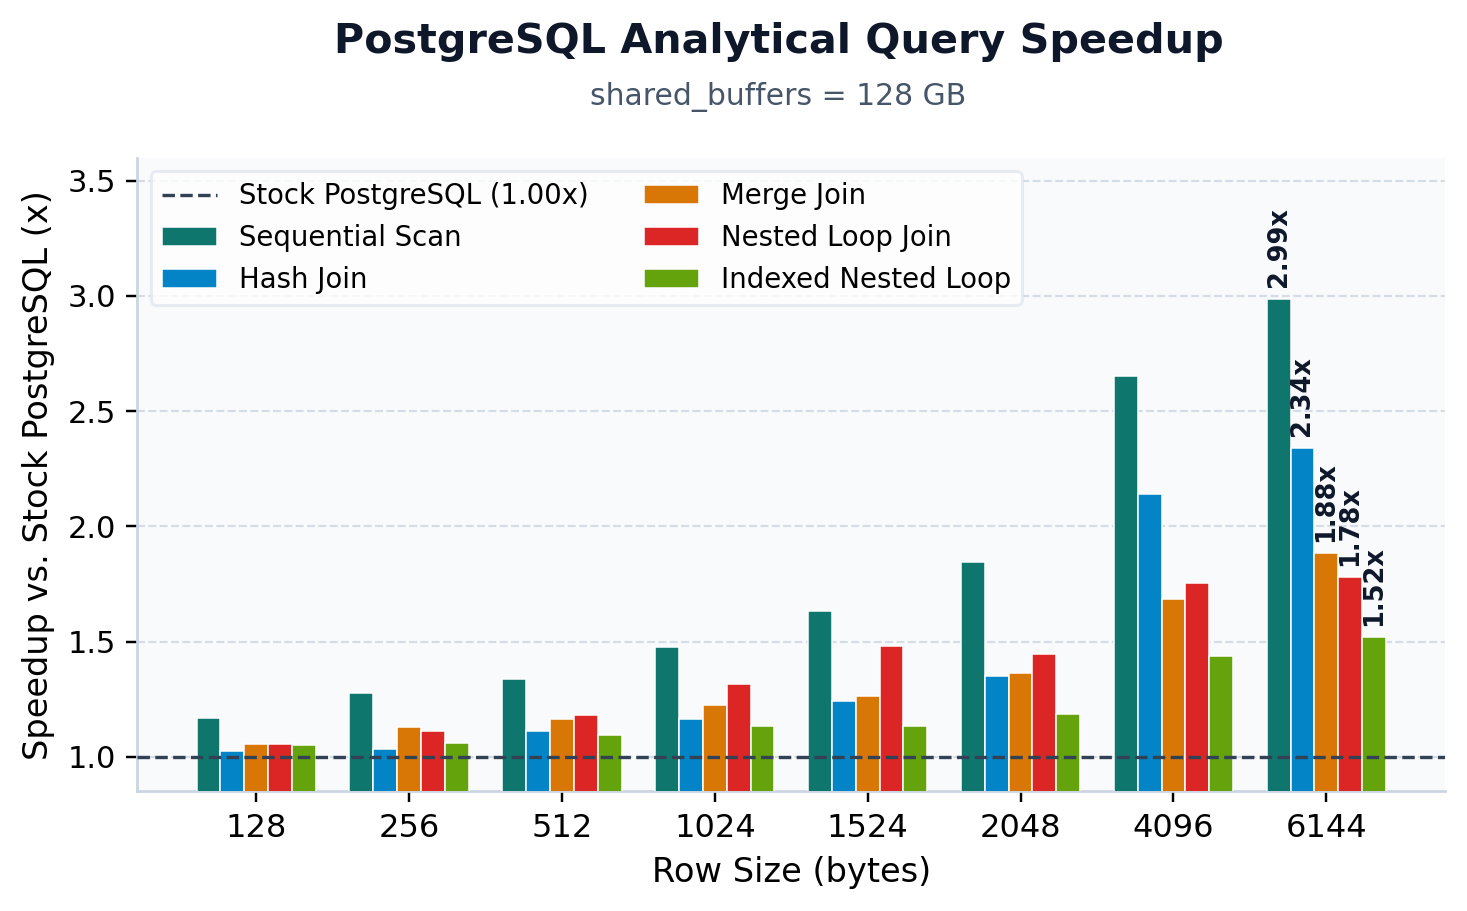
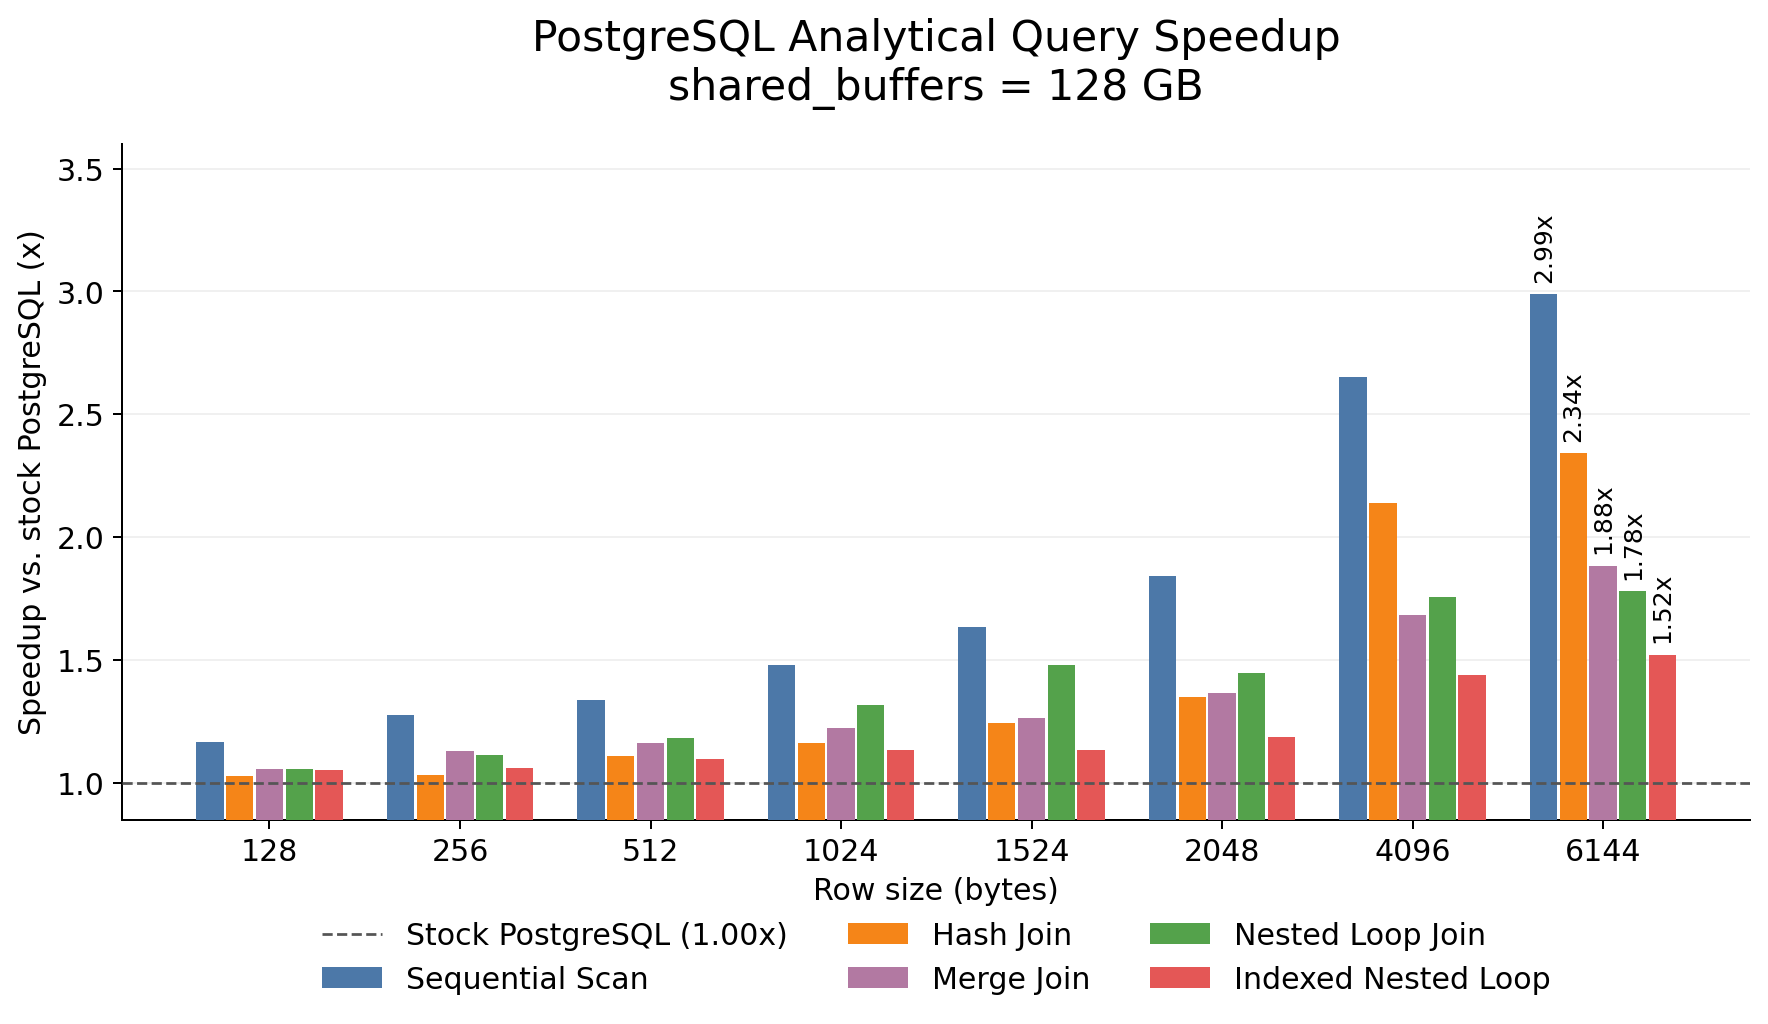
Unify benchmark figure fonts and colors

diff --git a/bench/plot_other_figures.py b/bench/plot_other_figures.py
@@ -1,0 +1,83 @@
+#!/usr/bin/env python3
+"""Restyle the historical IVFFlat and SQL charts without rerunning benchmarks."""
+import argparse
+import json
+from pathlib import Path
+
+import matplotlib
+matplotlib.use('Agg')
+import numpy as np
+
+from plot_style import (PALETTE, BASELINE_COLOR, FAST_COLOR, apply_style,
+                        new_chart, add_legend, save_chart)
+
+
+def plot_ivfflat(data, assets):
+    fig, ax = new_chart('IVFFlat Vector Search Latency',
+                        f"shared_buffers = {data['shared_buffers_gb']} GB")
+    datasets = data['datasets']
+    xs = np.arange(len(datasets))
+    width = .34
+    peak = max(r['pgvector_median_ms'] for r in datasets)
+    for offset, field, label, color in [
+        (-.5, 'pgvector_median_ms', 'pgvector', BASELINE_COLOR),
+        (.5, 'pgvectorfast_median_ms', 'pgvectorfast', FAST_COLOR),
+    ]:
+        bars = ax.bar(xs + offset*width, [r[field] for r in datasets],
+                      width*.92, label=label, color=color, zorder=3)
+        for bar, row in zip(bars, datasets):
+            value = row[field]
+            text = f'{value:.2f}'
+            if field == 'pgvectorfast_median_ms':
+                reduction = 100 * (1 - value / row['pgvector_median_ms'])
+                text += f'\n(-{reduction:.1f}%)'
+            ax.text(bar.get_x() + bar.get_width()/2, value + peak*.018,
+                    text, ha='center', va='bottom', fontsize=10)
+    ax.set_xticks(xs, [f"{r['name']} ({r['dimensions']}D)\n"
+                      f"Recall@3 = {r['recall_at_3']:.2f}" for r in datasets])
+    ax.set_ylabel('Median query latency (ms)')
+    ax.set_ylim(0, peak*1.22)
+    add_legend(ax, 2)
+    save_chart(fig, assets/'ivfflat_latency.png')
+
+
+def plot_analytical(data, assets):
+    fig, ax = new_chart('PostgreSQL Analytical Query Speedup',
+                        f"shared_buffers = {data['shared_buffers_gb']} GB")
+    sizes = data['row_sizes_bytes']
+    xs = np.arange(len(sizes))
+    series = data['series']
+    width = .78 / len(series)
+    for i, (row, color) in enumerate(zip(series, PALETTE)):
+        bars = ax.bar(xs + (i-(len(series)-1)/2)*width, row['speedups'],
+                      width*.92, label=row['label'], color=color, zorder=3)
+        last = bars[-1]
+        ax.text(last.get_x()+last.get_width()/2, last.get_height()+.05,
+                f'{last.get_height():.2f}x', ha='center', va='bottom',
+                rotation=90, fontsize=10)
+    ax.axhline(1, color='#555555', linestyle='--', linewidth=1.1,
+               label='Stock PostgreSQL (1.00x)', zorder=4)
+    ax.set_xticks(xs, [str(n) for n in sizes])
+    ax.set_xlabel('Row size (bytes)')
+    ax.set_ylabel('Speedup vs. stock PostgreSQL (x)')
+    ax.set_ylim(.85, 3.6)
+    add_legend(ax, 3)
+    save_chart(fig, assets/'olap_speedup.png')
+
+
+def main():
+    parser = argparse.ArgumentParser(description=__doc__)
+    parser.add_argument('--data', type=Path,
+                        default=Path(__file__).with_name('figure_data.json'))
+    parser.add_argument('--assets', type=Path,
+                        default=Path(__file__).resolve().parents[1]/'assets')
+    args = parser.parse_args()
+    data = json.loads(args.data.read_text())
+    args.assets.mkdir(parents=True, exist_ok=True)
+    apply_style()
+    plot_ivfflat(data['ivfflat'], args.assets)
+    plot_analytical(data['analytical'], args.assets)
+
+
+if __name__ == '__main__':
+    main()

diff --git a/bench/hnsw/summarize.py b/bench/hnsw/summarize.py
@@ -5,16 +5,19 @@ import csv
 import json
 from pathlib import Path
 import statistics
+import sys
 
 import matplotlib
 matplotlib.use('Agg')
-import matplotlib.pyplot as plt
 import numpy as np
+
+sys.path.insert(0, str(Path(__file__).resolve().parents[1]))
+from plot_style import PALETTE, apply_style, new_chart, add_legend, save_chart
 
 STORES = ['pgvector', 'pgvectorfast', 'chroma', 'qdrant']
 NAMES = {'pgvector': 'pgvector', 'pgvectorfast': 'pgvectorfast',
          'chroma': 'Chroma', 'qdrant': 'Qdrant'}
-COLORS = ['#4c78a8', '#f58518', '#b279a2', '#54a24b']
+COLORS = PALETTE[:4]
 DATASETS = ['sift10m', 'deep10m']
 
 
@@ -104,11 +107,10 @@ def main():
         lines += ['']
     (a.results / 'tables.md').write_text('\n'.join(lines))
     a.assets.mkdir(parents=True, exist_ok=True)
-    plt.rcParams.update({'font.family': 'DejaVu Sans', 'font.size': 12,
-                         'axes.spines.top': False, 'axes.spines.right': False})
+    apply_style()
     for mode, title, budget in [('inmem', 'In-Memory HNSW', '16 GiB per service'),
                                 ('oom', 'Larger-Than-Memory HNSW', '2 GiB per service, OS swap disabled')]:
-        fig, ax = plt.subplots(figsize=(10, 6))
+        fig, ax = new_chart(title, budget)
         xpos = np.arange(2)
         width = .19
         peak = max(r.get('qps', 0) for r in rows if r['mode'] == mode)
@@ -128,15 +130,11 @@ def main():
                 else:
                     ax.text(x, peak*.025, 'OOM', ha='center', va='bottom',
                             color=COLORS[j], weight='bold', fontsize=11)
-        ax.set_title(f'{title}\n{budget}', fontsize=17, pad=18)
         ax.set_ylabel('QPS (median of 3 repeats)')
         ax.set_xticks(xpos, ['SIFT10M', 'DEEP10M'])
         ax.set_ylim(0, peak*1.18)
-        ax.grid(axis='y', alpha=.18, zorder=0)
-        ax.legend(ncol=4, loc='upper center', bbox_to_anchor=(.5, -.11), frameon=False)
-        fig.tight_layout()
-        fig.savefig(a.assets / f'hnsw_{mode}.png', dpi=180, bbox_inches='tight')
-        plt.close(fig)
+        add_legend(ax, 4)
+        save_chart(fig, a.assets / f'hnsw_{mode}.png')
 
 
 if __name__ == '__main__':

diff --git a/bench/plot_style.py b/bench/plot_style.py
@@ -1,0 +1,40 @@
+"""Shared appearance for the four benchmark figures in the README."""
+import matplotlib.pyplot as plt
+
+PALETTE = ['#4c78a8', '#f58518', '#b279a2', '#54a24b', '#e45756']
+BASELINE_COLOR, FAST_COLOR = PALETTE[:2]
+
+
+def apply_style():
+    plt.rcParams.update({
+        'font.family': 'DejaVu Sans', 'font.size': 12,
+        'axes.titlesize': 17, 'axes.titleweight': 'normal',
+        'axes.labelsize': 12, 'axes.labelweight': 'normal',
+        'xtick.labelsize': 12, 'ytick.labelsize': 12,
+        'legend.fontsize': 12, 'legend.frameon': False,
+        'figure.facecolor': 'white', 'axes.facecolor': 'white',
+        'axes.edgecolor': 'black', 'axes.linewidth': .8,
+        'axes.spines.top': False, 'axes.spines.right': False,
+        'text.color': 'black', 'axes.labelcolor': 'black',
+        'xtick.color': 'black', 'ytick.color': 'black',
+        'grid.color': '#b0b0b0', 'grid.linestyle': '-',
+        'grid.linewidth': .8,
+    })
+
+
+def new_chart(title, subtitle):
+    fig, ax = plt.subplots(figsize=(10, 6))
+    ax.set_title(f'{title}\n{subtitle}', fontsize=17, pad=18)
+    ax.grid(axis='y', alpha=.18, zorder=0)
+    return fig, ax
+
+
+def add_legend(ax, columns):
+    ax.legend(ncol=columns, loc='upper center',
+              bbox_to_anchor=(.5, -.11), frameon=False)
+
+
+def save_chart(fig, path):
+    fig.tight_layout()
+    fig.savefig(path, dpi=180, bbox_inches='tight', facecolor='white')
+    plt.close(fig)

diff --git a/bench/hnsw/README.md b/bench/hnsw/README.md
@@ -119,3 +119,11 @@ across engines for the same dataset and memory budget.
 ```
 
 This exports the two HNSW charts, a CSV summary, and Markdown result tables.
+
+All four README figures share the fonts, colors, and layout helpers in
+`bench/plot_style.py`. Regenerate the IVFFlat and analytical-query figures from
+their recorded historical values in `bench/figure_data.json` with:
+
+```sh
+/tmp/hnsw-venv/bin/python bench/plot_other_figures.py --assets assets
+```
